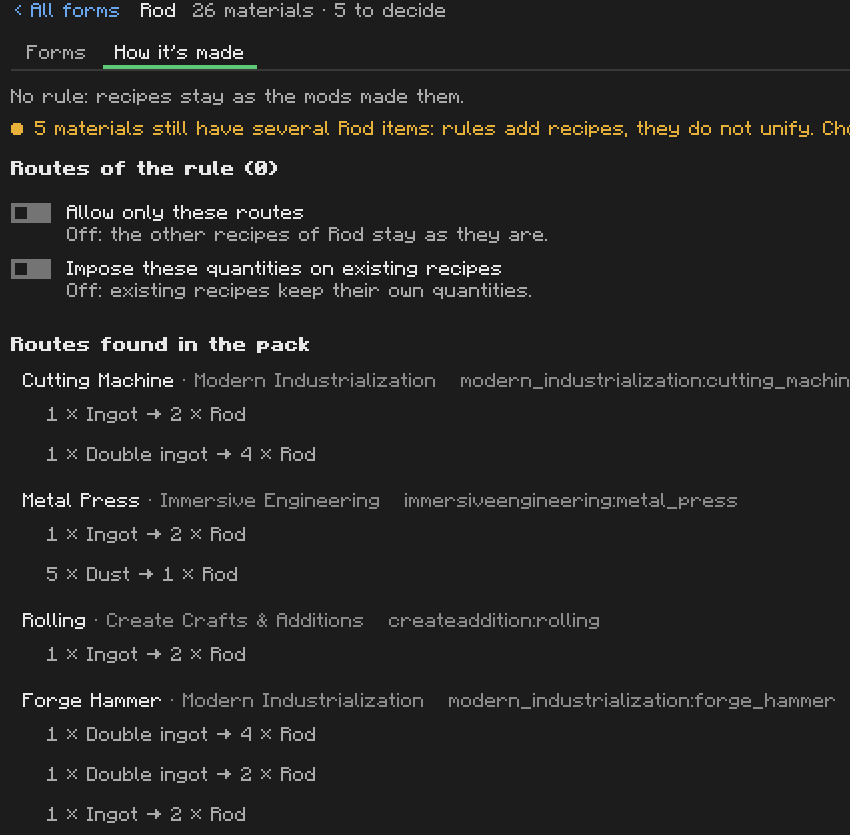
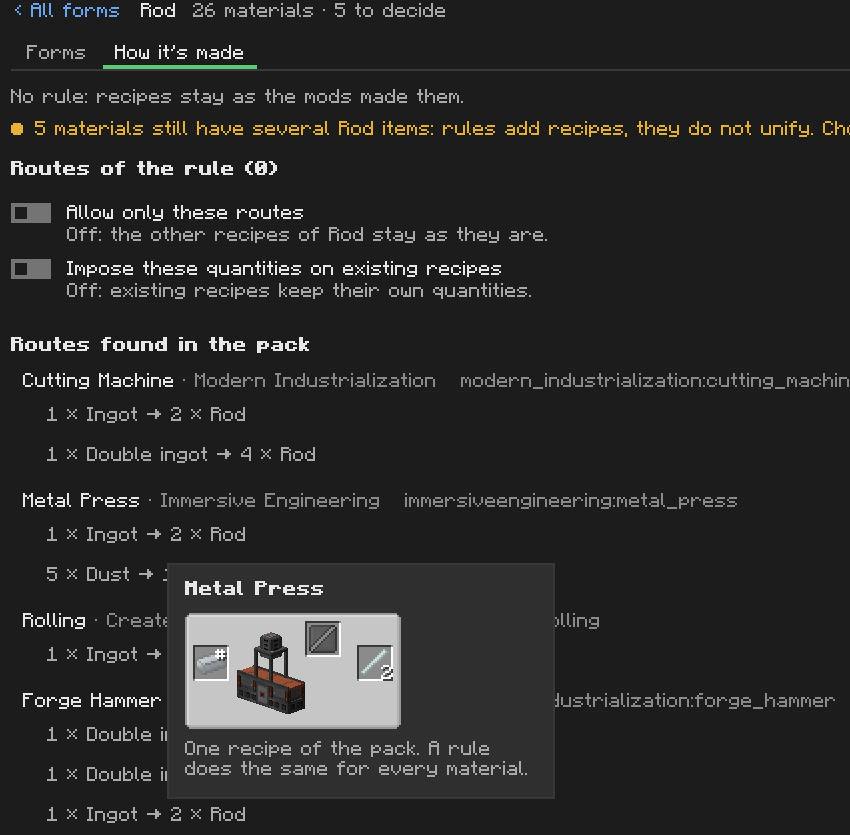
MNX-122: 0.4.0 prepared: mod_version, changelog, store description (removing a recipe, your own datapacks) and release checklist; store art and wiki images retaken (bins in the Recipes tab, route hover in How it's made); fixture tag entry optional so -Pvanilla loads it; build, 40 JUnit, 20/20 GameTe

Changed region(s): [[0.1835, 0.6539, 0.6729, 0.9653], [0.5506, 0.8096, 0.5812, 0.8407]]

diff --git a/STORE.md b/STORE.md
@@ -98,6 +98,8 @@ needs operator rights (permission level 2).
   Engineering, Modern Industrialization, Oritech, Occultism, Silent Gear and more.
 - **Recipes drawn by JEI or EMI** inside the screen, grouped by what applying does to them; hover a
   recipe or a machine route to see it.
+- **Remove a recipe** with the bin on its row: it waits for the review like every choice, and one
+  click puts it back.
 
 ![Recipes](https://raw.githubusercontent.com/DrimoZ/MaterialNexus/main/docs/store-art/screen_recipes.png)
 
@@ -134,7 +136,8 @@ Everything is files in `config/materialnexus/`, made to ship with the pack; the
 presets) are datapack data, editable in game in Rule files. `/materials report` writes a full
 analysis. KubeJS scripts get a read-only `MaterialNexus` binding to ask which item is kept, and a pack
 that already unifies with scripts sees what they decided, offered as the same choices, with the script
-lines to delete once applied.
+lines to delete once applied. Your own datapacks are read too, never changed: the screen names the one
+that replaces or switches off a recipe or edits a form's tag, and the review warns before undoing it.
 
 ### Compatibility
 
@@ -191,19 +194,18 @@ not lift them into another project.
 <!-- End of the pasted description. -->
 
 
-## Release checklist: 0.3.0
+## Release checklist: 0.4.0
 
-- [x] `main` green: `./gradlew test`, `./gradlew runGameTestServer`, `./gradlew runGameTestServer -Pvanilla`
+- [ ] `main` green: `./gradlew test`, `./gradlew runGameTestServer`, `./gradlew runGameTestServer -Pvanilla`
       (and `-Pau`, `-Pkubejs` when those parts changed).
-- [x] New textures of the default items in place: no jar and no image (store art, wiki, gallery) before them (MNX-107).
 - [x] Project avatar: `src/main/resources/logo.png` (from `java tools/GenerateLogo.java`), unchanged since 0.2.0.
-- [x] Generate the art (see the top of this file) and push it; the description loads it from GitHub (MNX-107).
+- [ ] Generate the art (see the top of this file) and push it; the description loads it from GitHub.
+- [ ] Wiki published from `docs/wiki` (steps in `docs/wiki/README.md`).
 - [ ] Gallery (850 px wide at most): `screen_material.png`, `screen_inspector.png`, `screen_matrix.png`,
       `screen_priority.png`, `screen_preview.png`, `screen_process.png`. The wider ones (`screen_home.png`,
       `screen_triage.png`, `screen_recipes.png`...) are for the description only.
-- [ ] Paste the summary and the description.
+- [ ] Paste the description (new since 0.3.0: removing a recipe, your own datapacks).
 - [ ] Upload the jar from `gradlew build` (`build/libs`), release type **Beta**,
-      loader NeoForge, with the `## 0.3.0` section of `CHANGELOG.md`.
+      loader NeoForge, with the `## 0.4.0` section of `CHANGELOG.md`.
 - [ ] Optional dependencies: JEI, EMI, Almost Unified, KubeJS.
-- [ ] Tag `v0.3.0`.
-- [x] Modrinth and CurseForge links in the README.
+- [ ] Tag `v0.4.0`.

diff --git a/docs/14-BACKLOG.md b/docs/14-BACKLOG.md
@@ -68,3 +68,4 @@
 | MNX-119 | P2 | Nothing drawn under the drawer over it | While the pointer is over the Review drawer, the view beneath gets no pointer: no hover, tooltip or recipe drawing of a hidden row appears over the drawer |
 | MNX-120 | P1 | Only world datapacks are the author's | A pack counts as the author's datapack only when it comes from the world's datapacks folder (Create New Age ships a pack with a source of its own, which MNX-118 took for one); the MNX-118 GameTest checks that only the fixture is attributed recipes |
 | MNX-121 | P3 | Graph not tracked | `graphify-out/` is ignored as a whole: the graph is built locally and was removed from the repository |
+| MNX-122 | P1 | 0.4.0 prepared | mod_version, changelog, store description (removing a recipe, your own datapacks) and release checklist; store art and wiki images retaken with the bins |

diff --git a/CHANGELOG.md b/CHANGELOG.md
@@ -1,6 +1,6 @@
 # Changelog
 
-## Unreleased
+## 0.4.0
 
 - Remove a recipe from the screen: the bin at the end of a row in the Recipes tab, or **Remove this recipe** in its inspector. Like every choice it waits for Review and apply, and the same button puts it back, before or after applying (`disabled_recipes` in `global.json`). A recipe a script makes in memory, or one Material Nexus makes from your rules, cannot be removed this way, and the screen says why.
 - Your own datapacks are read, never changed: a recipe one of them replaces or switches off says which datapack does, a form's inspector says what they put in or take out of its tag, and Review and apply warns when applying would undo one of their changes.
